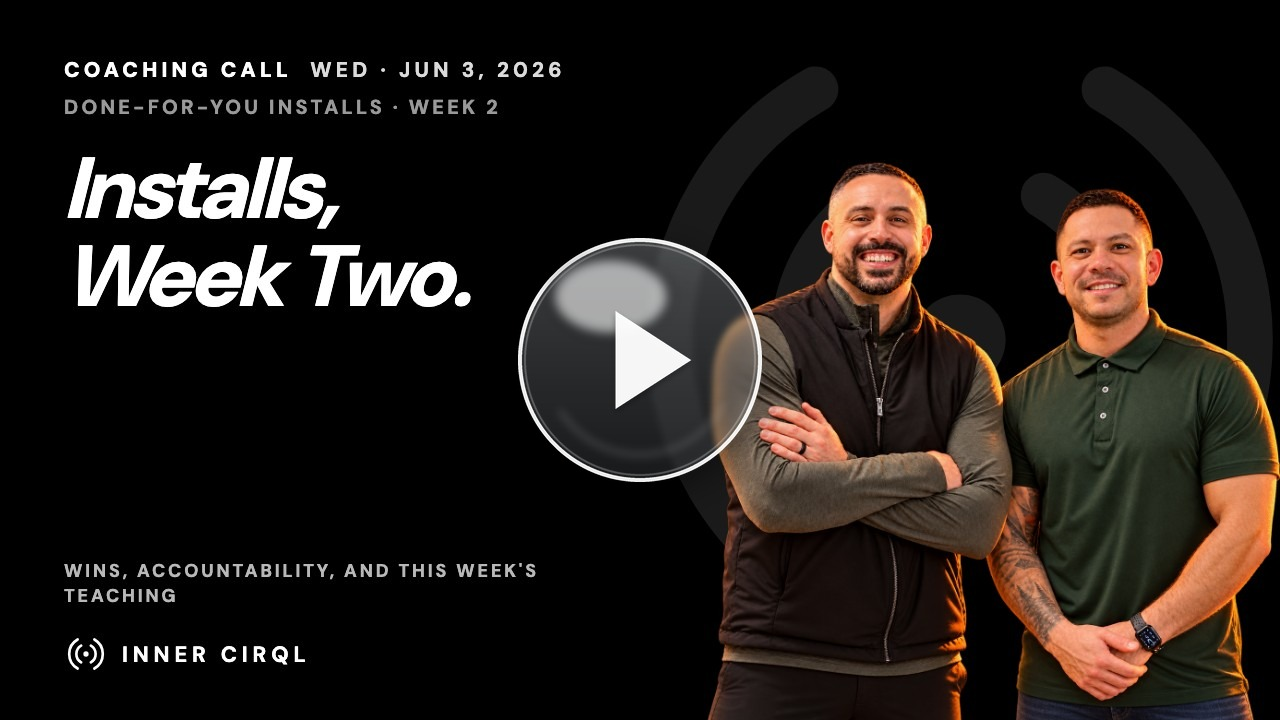
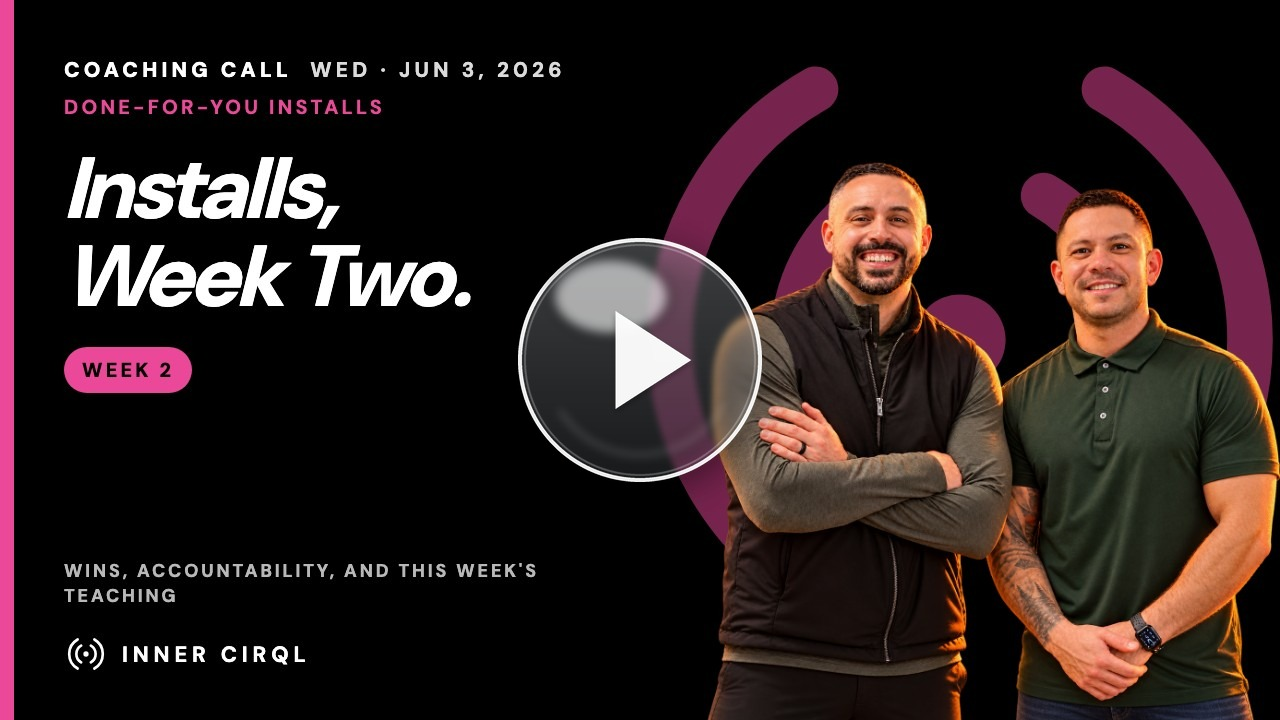
Training: retitle Jun 3 coaching call (Done-For-You Installs Launch · Week 2.) + thumbnail

diff --git a/training/index.html b/training/index.html
@@ -94,6 +94,26 @@ window.LIBRARY = {
   ],
   "items": [
     {
+      "id": "v-2026-06-03",
+      "date": "2026-06-03",
+      "dateLabel": "June 3, 2026",
+      "series": "dfy",
+      "week": 2,
+      "name": "Installs, Week 2.",
+      "title": "Done-For-You Installs Launch · Week 2.",
+      "headline": [
+        "Installs,",
+        "Week Two."
+      ],
+      "sub": "Done-For-You Installs · Week 2",
+      "desc": "Done-For-You Installs, Week 2. Wins, accountability, and the week's teaching segment, edited replay.",
+      "href": "https://coach.theinnercirql.com/2026-06-03/",
+      "pdf": null,
+      "slides": null,
+      "embed": "https://www.youtube.com/embed/twFdUz3Ba0o?rel=0&modestbranding=1",
+      "thumb": "/assets/thumbs/jun-3-call.jpg?v=29920176"
+    },
+    {
       "id": "v-2026-05-27",
       "date": "2026-05-27",
       "dateLabel": "May 27, 2026",
@@ -532,26 +552,6 @@ window.LIBRARY = {
       "slides": null,
       "embed": "https://www.youtube.com/embed/1KuhnMXoUxI?rel=0&modestbranding=1",
       "thumb": "/assets/thumbs/jun-10-call.jpg?v=29920161"
-    },
-    {
-      "id": "v-2026-06-03",
-      "date": "2026-06-03",
-      "dateLabel": "June 3, 2026",
-      "series": "dfy",
-      "week": 2,
-      "name": "Installs, Week 2.",
-      "title": "Done-For-You Installs Launch · Week 2.",
-      "headline": [
-        "Installs,",
-        "Week Two."
-      ],
-      "sub": "Done-For-You Installs · Week 2",
-      "desc": "Done-For-You Installs, Week 2. Wins, accountability, and the week's teaching segment, edited replay.",
-      "href": "https://coach.theinnercirql.com/2026-06-03/",
-      "pdf": null,
-      "slides": null,
-      "embed": "https://www.youtube.com/embed/twFdUz3Ba0o?rel=0&modestbranding=1",
-      "thumb": "/assets/thumbs/jun-3-call.jpg?v=29920160"
     },
     {
       "id": "t-become-a-listing-magnet",
